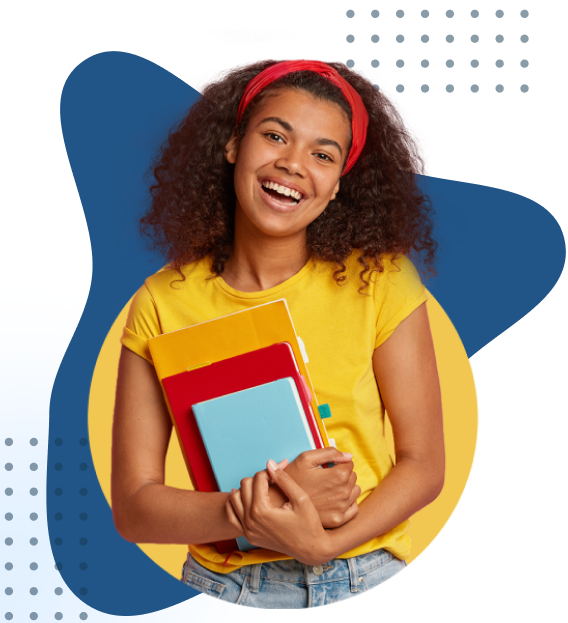
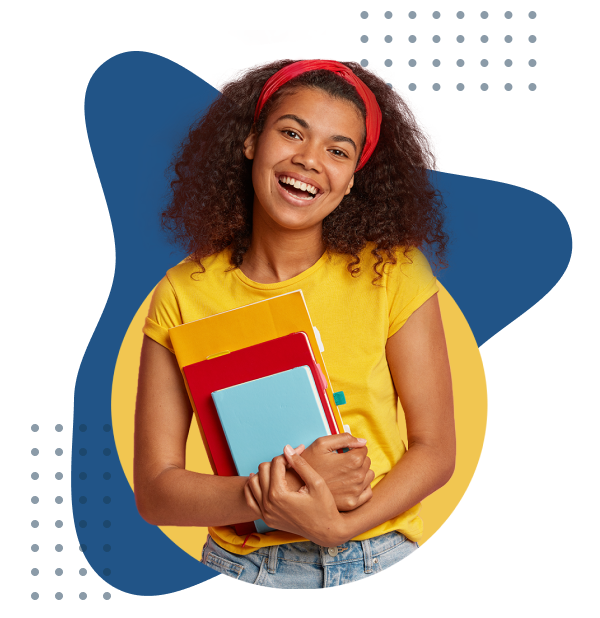
Pesquisa - alinhamento
Arrumei algumas coisas que estavam mal alinhadas e os cards agora estão em display grid para facilitar o uso e responsividade

diff --git a/src/public/pesquisa.css b/src/public/pesquisa.css
@@ -3,14 +3,12 @@
 }
 
 body {
-    background-image: url("fundo.jpg");
-    background-repeat: no-repeat;
     height: auto;
     width: auto;
 }
 
 nav {
-    width: 97.5%;
+    width: 100%;
     display: flex;
     padding: 0vw 0vw 0vw 2.5vw;
 }
@@ -34,6 +32,26 @@ header .logo_a {
 
 header .logo_a span {
     color: #215487;
+}
+
+header .buttons-log button {
+    width: 145px;
+    height: 50px;
+    border-radius: 15px;
+    background: #215487;
+    color: #FFF;
+    font-size: 18px;
+    font-weight: 300;
+    margin-right: 60px;
+    border: none;
+    cursor: pointer;
+}
+
+header .buttons-log  button:hover {
+    background-color: #FFF;
+    color: #215487;
+    border: 3px solid #215487;
+    transition: 0.5s;   
 }
 
 .alert {
@@ -66,9 +84,10 @@ header .logo_a span {
 }
 
 .navLeft {
-    width: 85%;
+    width: 50%;
     display: flex;
     align-items: center;
+    height: 100%;
 }
 
 input {
@@ -90,11 +109,11 @@ input {
 }
 
 .navRight {
-    width: 10%;
+    width: 50%;
+    height: 100%;
     display: flex;
     justify-content: flex-end;
     align-items: center;
-    gap: 2vw;
     padding-right: 4%;
 }
 
@@ -290,6 +309,16 @@ aside {
     border-color: #2F80ED;
 }
 
+.opc a {
+    text-decoration: none;
+    color: var(--Gray-2, #4F4F4F);
+    font-size: 15px;
+    font-style: normal;
+    font-weight: 400;
+    line-height: 20px; /* 133.333% */
+    letter-spacing: 0.3px;
+}
+
 .brd {
     border-right: solid 1px;
     border-color: #2F80ED;
@@ -357,9 +386,11 @@ section h2 {
 
 
 .card-container {
-    display: flex;
-    flex-wrap: wrap;
-    justify-content: space-evenly;
+    display: grid;
+    grid-template-columns: auto auto auto auto;
+    gap: 20px;
+    margin-left: 5%;
+    margin-bottom: 5%;
 }
 
 .card {
@@ -376,18 +407,29 @@ section h2 {
     .card {
         width: calc(50% - 20px);
     }
+
 }
 
 @media screen and (max-width: 480px) {
     .card {
         width: 100%;
     }
+
+}
+
+@media screen and (max-width: 1080px) {
+
+
+    .card-container {
+        grid-template-columns: auto auto;
+        margin-left: 8%;
+    }
 }
 
 .card {
     width: 400px;
     background-color: #ffffff;
-    box-shadow: 0.5vw 0.5vw 0.5vw rgb(0, 0, 0, 0.15);
+    box-shadow: 0.5vw 0.5vw 0.5vw rgb(0, 0, 0, 0.35);
     border-radius: 1vw;
     margin-top: 3vw;
     height: 400px;
@@ -396,6 +438,18 @@ section h2 {
     justify-content: end;
     text-align: center;
     overflow: hidden;
+}
+.text-content {
+    display: flex;
+    flex-direction: column;
+    margin: 0;
+    padding: 0;
+}
+
+.text-content p, .text-content h4 {
+    margin: 10px;
+    text-align: left;
+    padding-left: 5%;
 }
 
 .imgQuarto {
